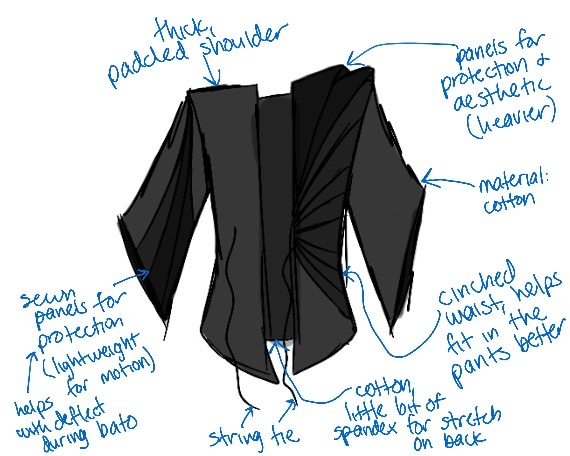
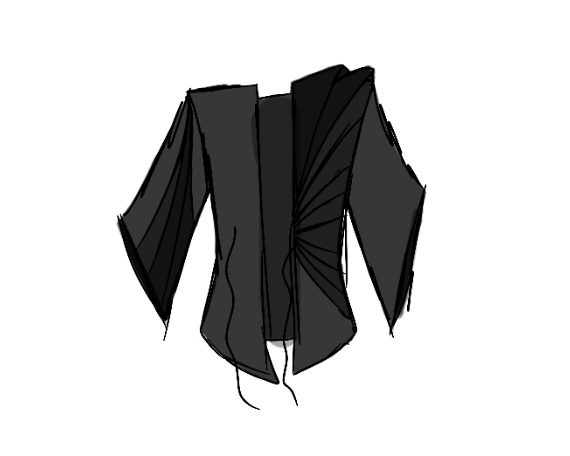
Loaded kimono asset

diff --git a/kimono.html b/kimono.html
@@ -35,7 +35,7 @@
 				<a href="index.html">
 					<span class="logo icon fa-code"></span>
 				</a>
-				<h1>Hakama</h1>
+				<h1>Kimono</h1>
 				<p>Untitled Princess Carolyn Project</p>
 			</div>
 
@@ -84,7 +84,7 @@
 				
 				<div class="box container">
 					<header>
-						<h2>Hakama</h2>
+						<h2>Kimono</h2>
 					</header>
 					<section>
 						<header>
@@ -108,7 +108,7 @@
 					</section> -->
 					<div id="container">
 					<!-- <div class="hitbox-wrapper"> -->
-                        <img src="images/Hakama.JPG" alt="Background" id="background" />
+                        <img src="images/Kimono.jpg" alt="Background" id="background" />
                         
                         <svg id="overlay" viewBox="0 0 800 600" preserveAspectRatio="xMidYMid meet">
                           <!-- Define a polygon hitbox -->
@@ -127,90 +127,6 @@
                           <div id="tooltip-text">Text box</div>
                         </div>
 
-						<svg id="overlay" viewBox="0 0 800 600" preserveAspectRatio="xMidYMid meet">
-							<!-- Define a polygon hitbox -->
-							<polygon 
-							  class="hitbox" 
-							  points="352,74 372,74 372,54 352,54" 
-							  data-center="362,64"
-							  data-tooltip="Inner band that serves as a lining when the user wears the swords, acts as a more traditional waistband that holds the bands up"
-							></polygon>
-						</svg>
-					  
-						<div id="tooltip" class="hidden">
-							<svg width="100%" height="100%" id="tooltip-line-layer">
-							  	<line id="tooltip-line" stroke="#000" stroke-width="2"/>
-							</svg>
-							<div id="tooltip-text">Text box</div>
-						</div>
-
-						<svg id="overlay" viewBox="0 0 800 600" preserveAspectRatio="xMidYMid meet">
-							<!-- Define a polygon hitbox -->
-							<polygon 
-							  class="hitbox" 
-							  points="344,240 364,240 364,260 344,260" 
-							  data-center="354,250"
-							  data-tooltip="Cargo pocket with weighted flap (leather) to hold flap down"
-							></polygon>
-						</svg>
-					  
-						<div id="tooltip" class="hidden">
-							<svg width="100%" height="100%" id="tooltip-line-layer">
-							  	<line id="tooltip-line" stroke="#000" stroke-width="2"/>
-							</svg>
-							<div id="tooltip-text">Text box</div>
-						</div>
-
-						<svg id="overlay" viewBox="0 0 800 600" preserveAspectRatio="xMidYMid meet">
-							<!-- Define a polygon hitbox -->
-							<polygon 
-							  class="hitbox" 
-							  points="363,331 383,331 383,351 363,351" 
-							  data-center="373,341"
-							  data-tooltip="Leg widening part made out of recycled material from recycled jeans (such as waistbands, pockets, etc.)"
-							></polygon>
-						</svg>
-					  
-						<div id="tooltip" class="hidden">
-							<svg width="100%" height="100%" id="tooltip-line-layer">
-							  	<line id="tooltip-line" stroke="#000" stroke-width="2"/>
-							</svg>
-							<div id="tooltip-text">Text box</div>
-						</div>
-
-						<svg id="overlay" viewBox="0 0 800 600" preserveAspectRatio="xMidYMid meet">
-							<!-- Define a polygon hitbox -->
-							<polygon 
-							  class="hitbox" 
-							  points="304,520 324,520 324,540 304,540" 
-							  data-center="314,530"
-							  data-tooltip="Hem reinforced with leather to keep the bottom of the pants from rolling up"
-							></polygon>
-						</svg>
-					  
-						<div id="tooltip" class="hidden">
-							<svg width="100%" height="100%" id="tooltip-line-layer">
-							  	<line id="tooltip-line" stroke="#000" stroke-width="2"/>
-							</svg>
-							<div id="tooltip-text">Text box</div>
-						</div>
-
-						<svg id="overlay" viewBox="0 0 800 600" preserveAspectRatio="xMidYMid meet">
-							<!-- Define a polygon hitbox -->
-							<polygon 
-							  class="hitbox" 
-							  points="424,535 444,535 444,515 424,515" 
-							  data-center="434,525"
-							  data-tooltip="Wide hem to hide feet movement and mobility"
-							></polygon>
-						</svg>
-					  
-						<div id="tooltip" class="hidden">
-							<svg width="100%" height="100%" id="tooltip-line-layer">
-							  	<line id="tooltip-line" stroke="#000" stroke-width="2"/>
-							</svg>
-							<div id="tooltip-text">Text box</div>
-						</div>
                     
                         <button id="toggle-hitbox">View Insights</button>
 					<!-- </div> -->

diff --git a/index.html b/index.html
@@ -40,7 +40,7 @@
 						</div>
 					</section>
 					<section class="feature right">
-						<a href="hitbox.html" class="image icon solid fa-code"><img src="images/blackbck.jpg" alt="" /></a>
+						<a href="kimono.html" class="image icon solid fa-code"><img src="images/blackbck.jpg" alt="" /></a>
 						<div class="content">
 							<h3>Kimono</h3>
 							<p>[Text about Kimono]</p>
